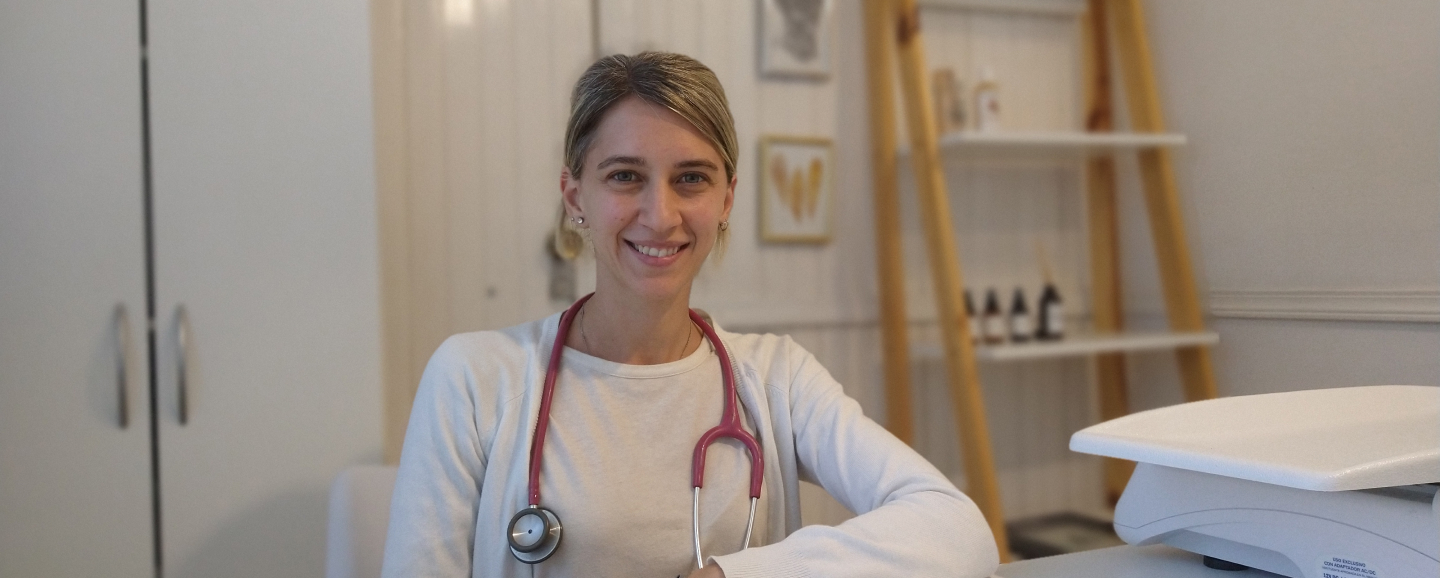
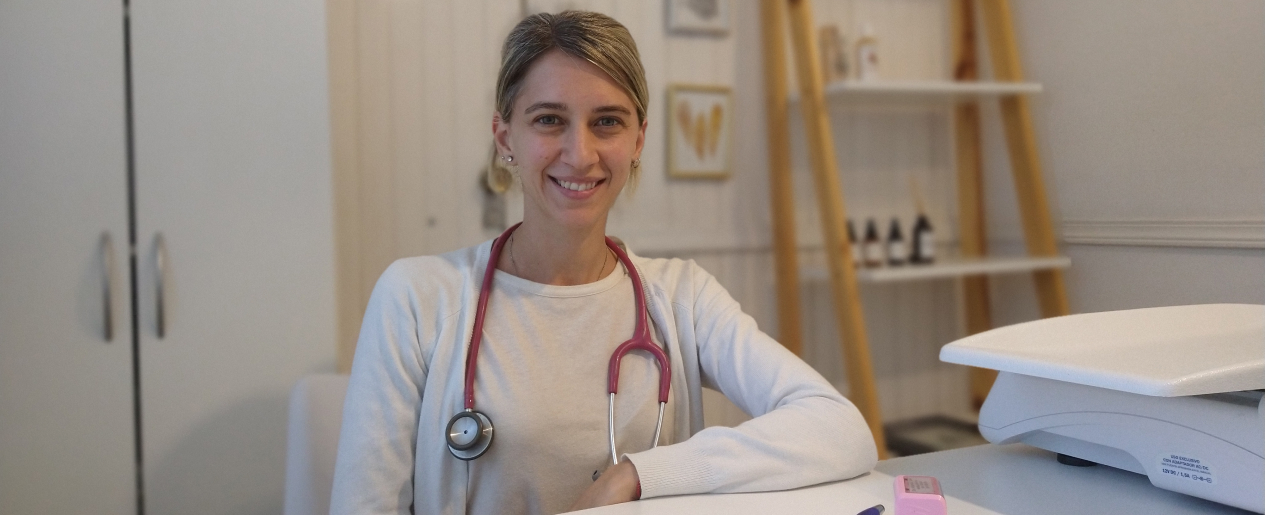
Adjust turnos images

diff --git a/components/Hero.js b/components/Hero.js
@@ -7,7 +7,7 @@ import Button from './forms/Button';
 import Input from './forms/Input';
 import Select from './forms/Select';
 
-export default function Hero({ title, text, cta, desktopImage, mobileImage, showForm, position }) {
+export default function Hero({ title, text, cta, desktopImage, mobileImage, showForm, position, page }) {
   return (
     <section
       className="
@@ -53,7 +53,7 @@ export default function Hero({ title, text, cta, desktopImage, mobileImage, show
       {/* Text */}
       <article
         className={`
-          ${showForm === false ? 'pt-16 md:pt-24 lg:pt-32 xl:pt-44' : 'md:grid-cols-2'}
+          ${showForm === false ? `pt-16 md:pt-24 lg:pt-32 ${page === 'turnos' ? 'xl:pt-72' : 'xl:pt-44'}` : 'md:grid-cols-2'}
           container mx-auto relative grid grid-cols-1
         `}
       >

diff --git a/pages/turnos.js b/pages/turnos.js
@@ -44,7 +44,8 @@ export default function Turnos({ turnosData }) {
         desktopImage={heroDesktopImage}
         mobileImage={heroMobileImage}
         showForm={false}
-        position="top"
+        position="center"
+        page="turnos"
       />
       <Panels
         titles={titles}
